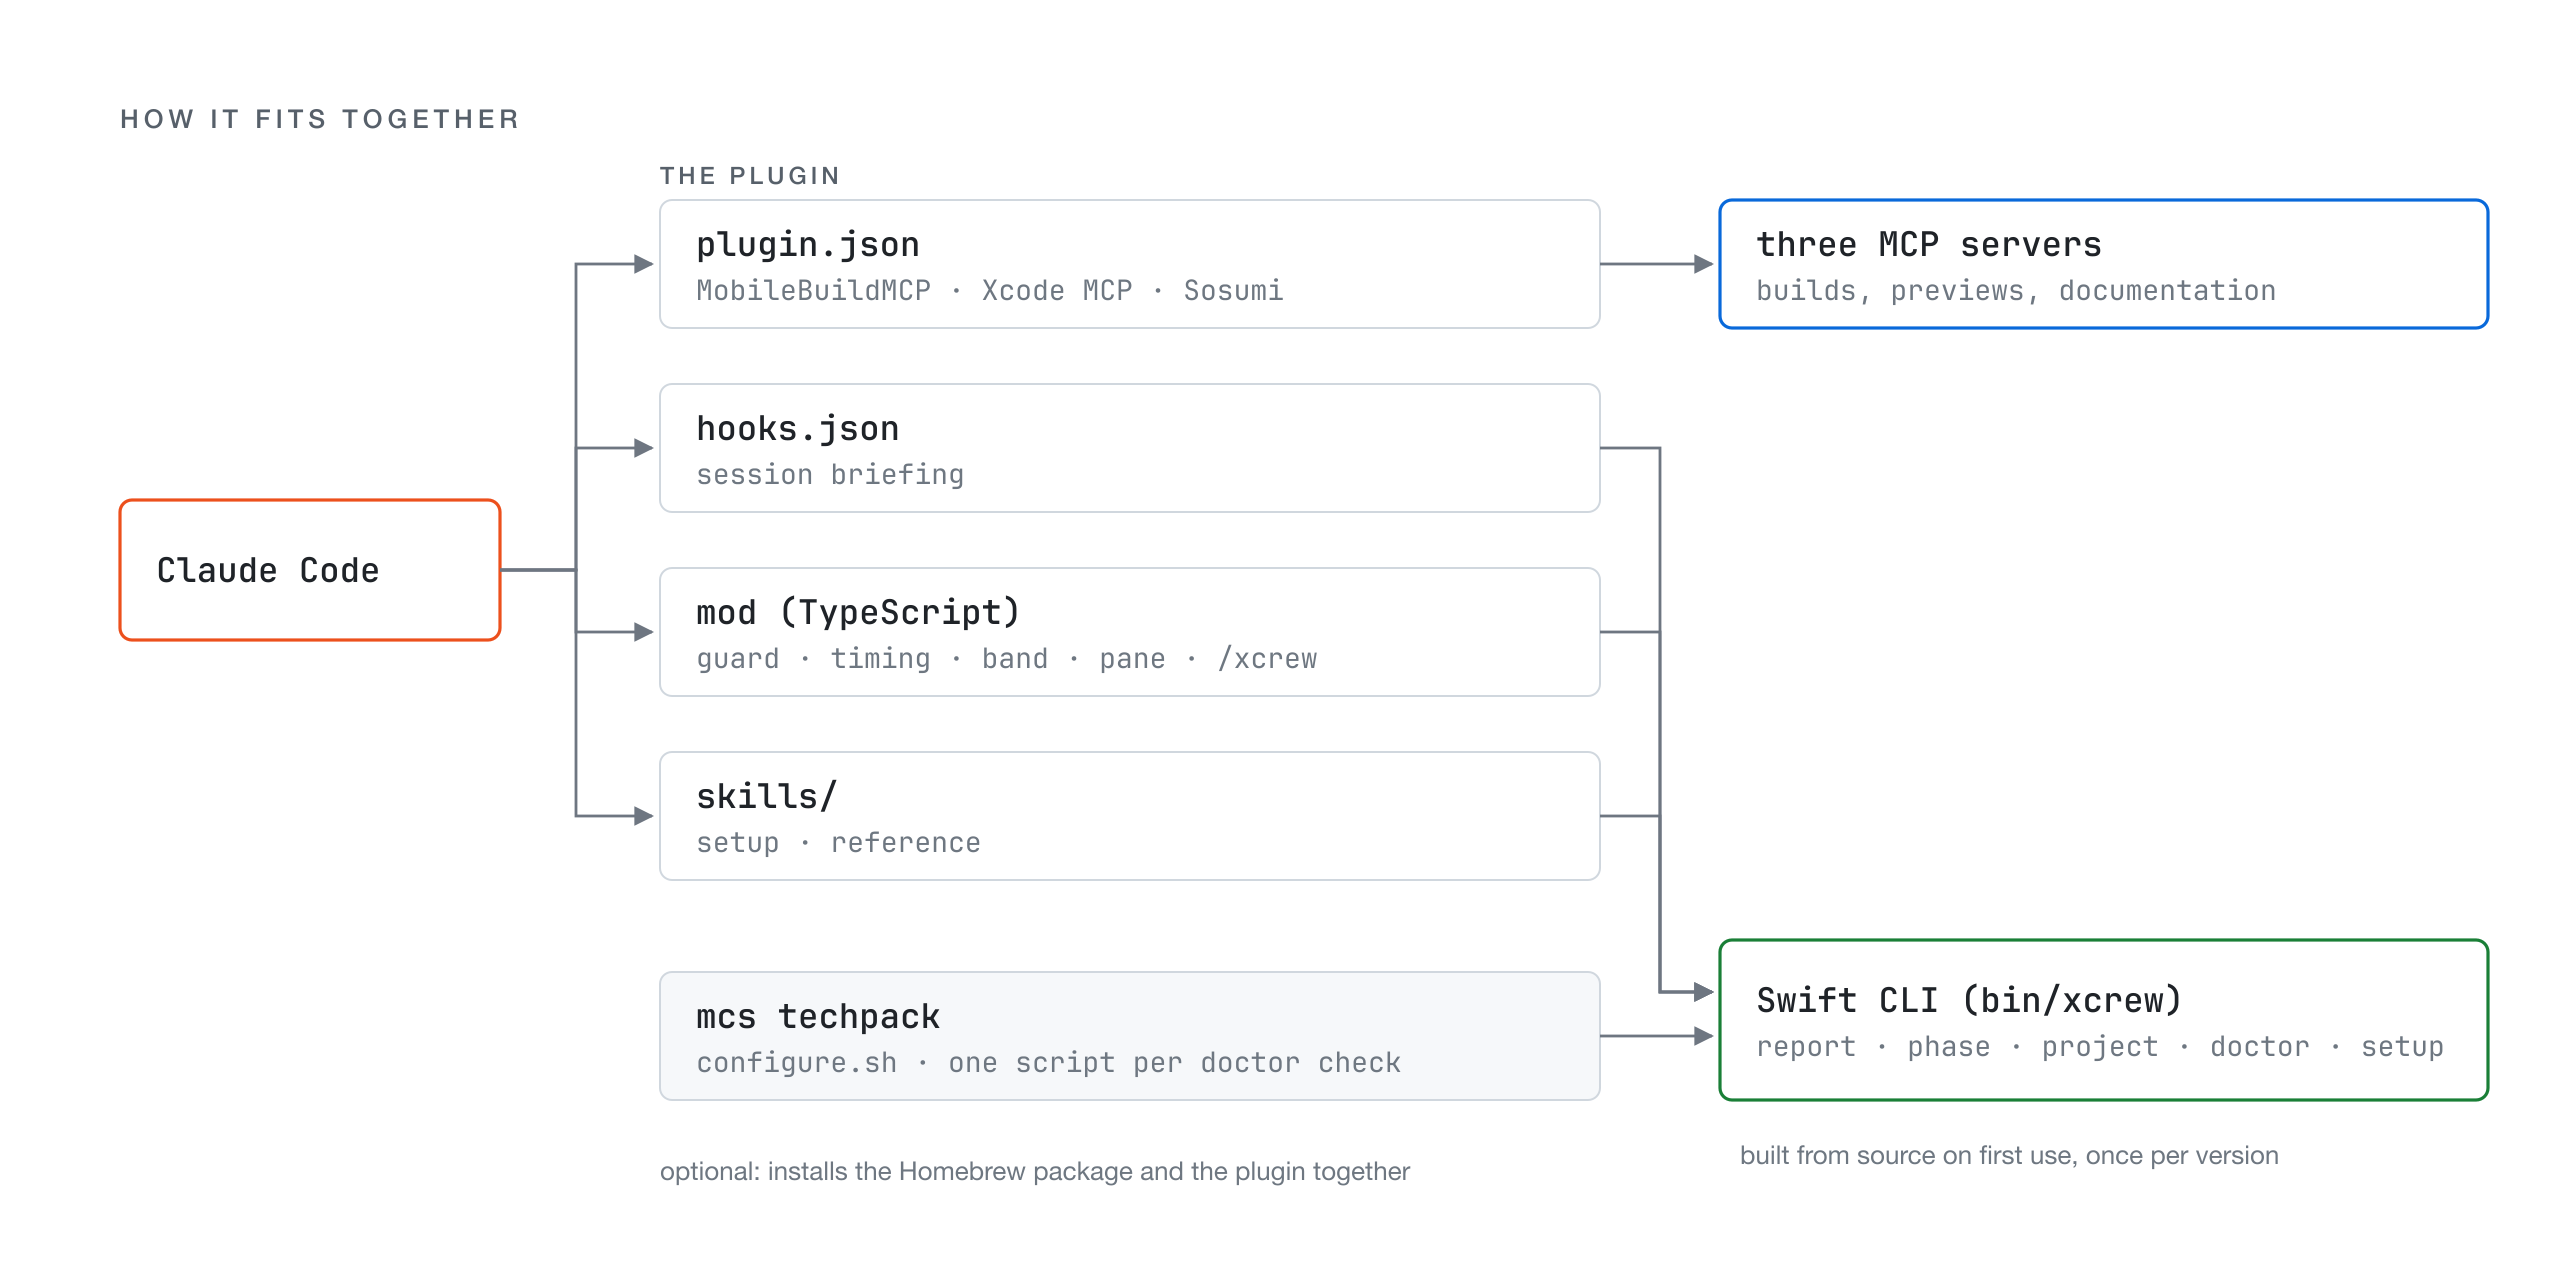
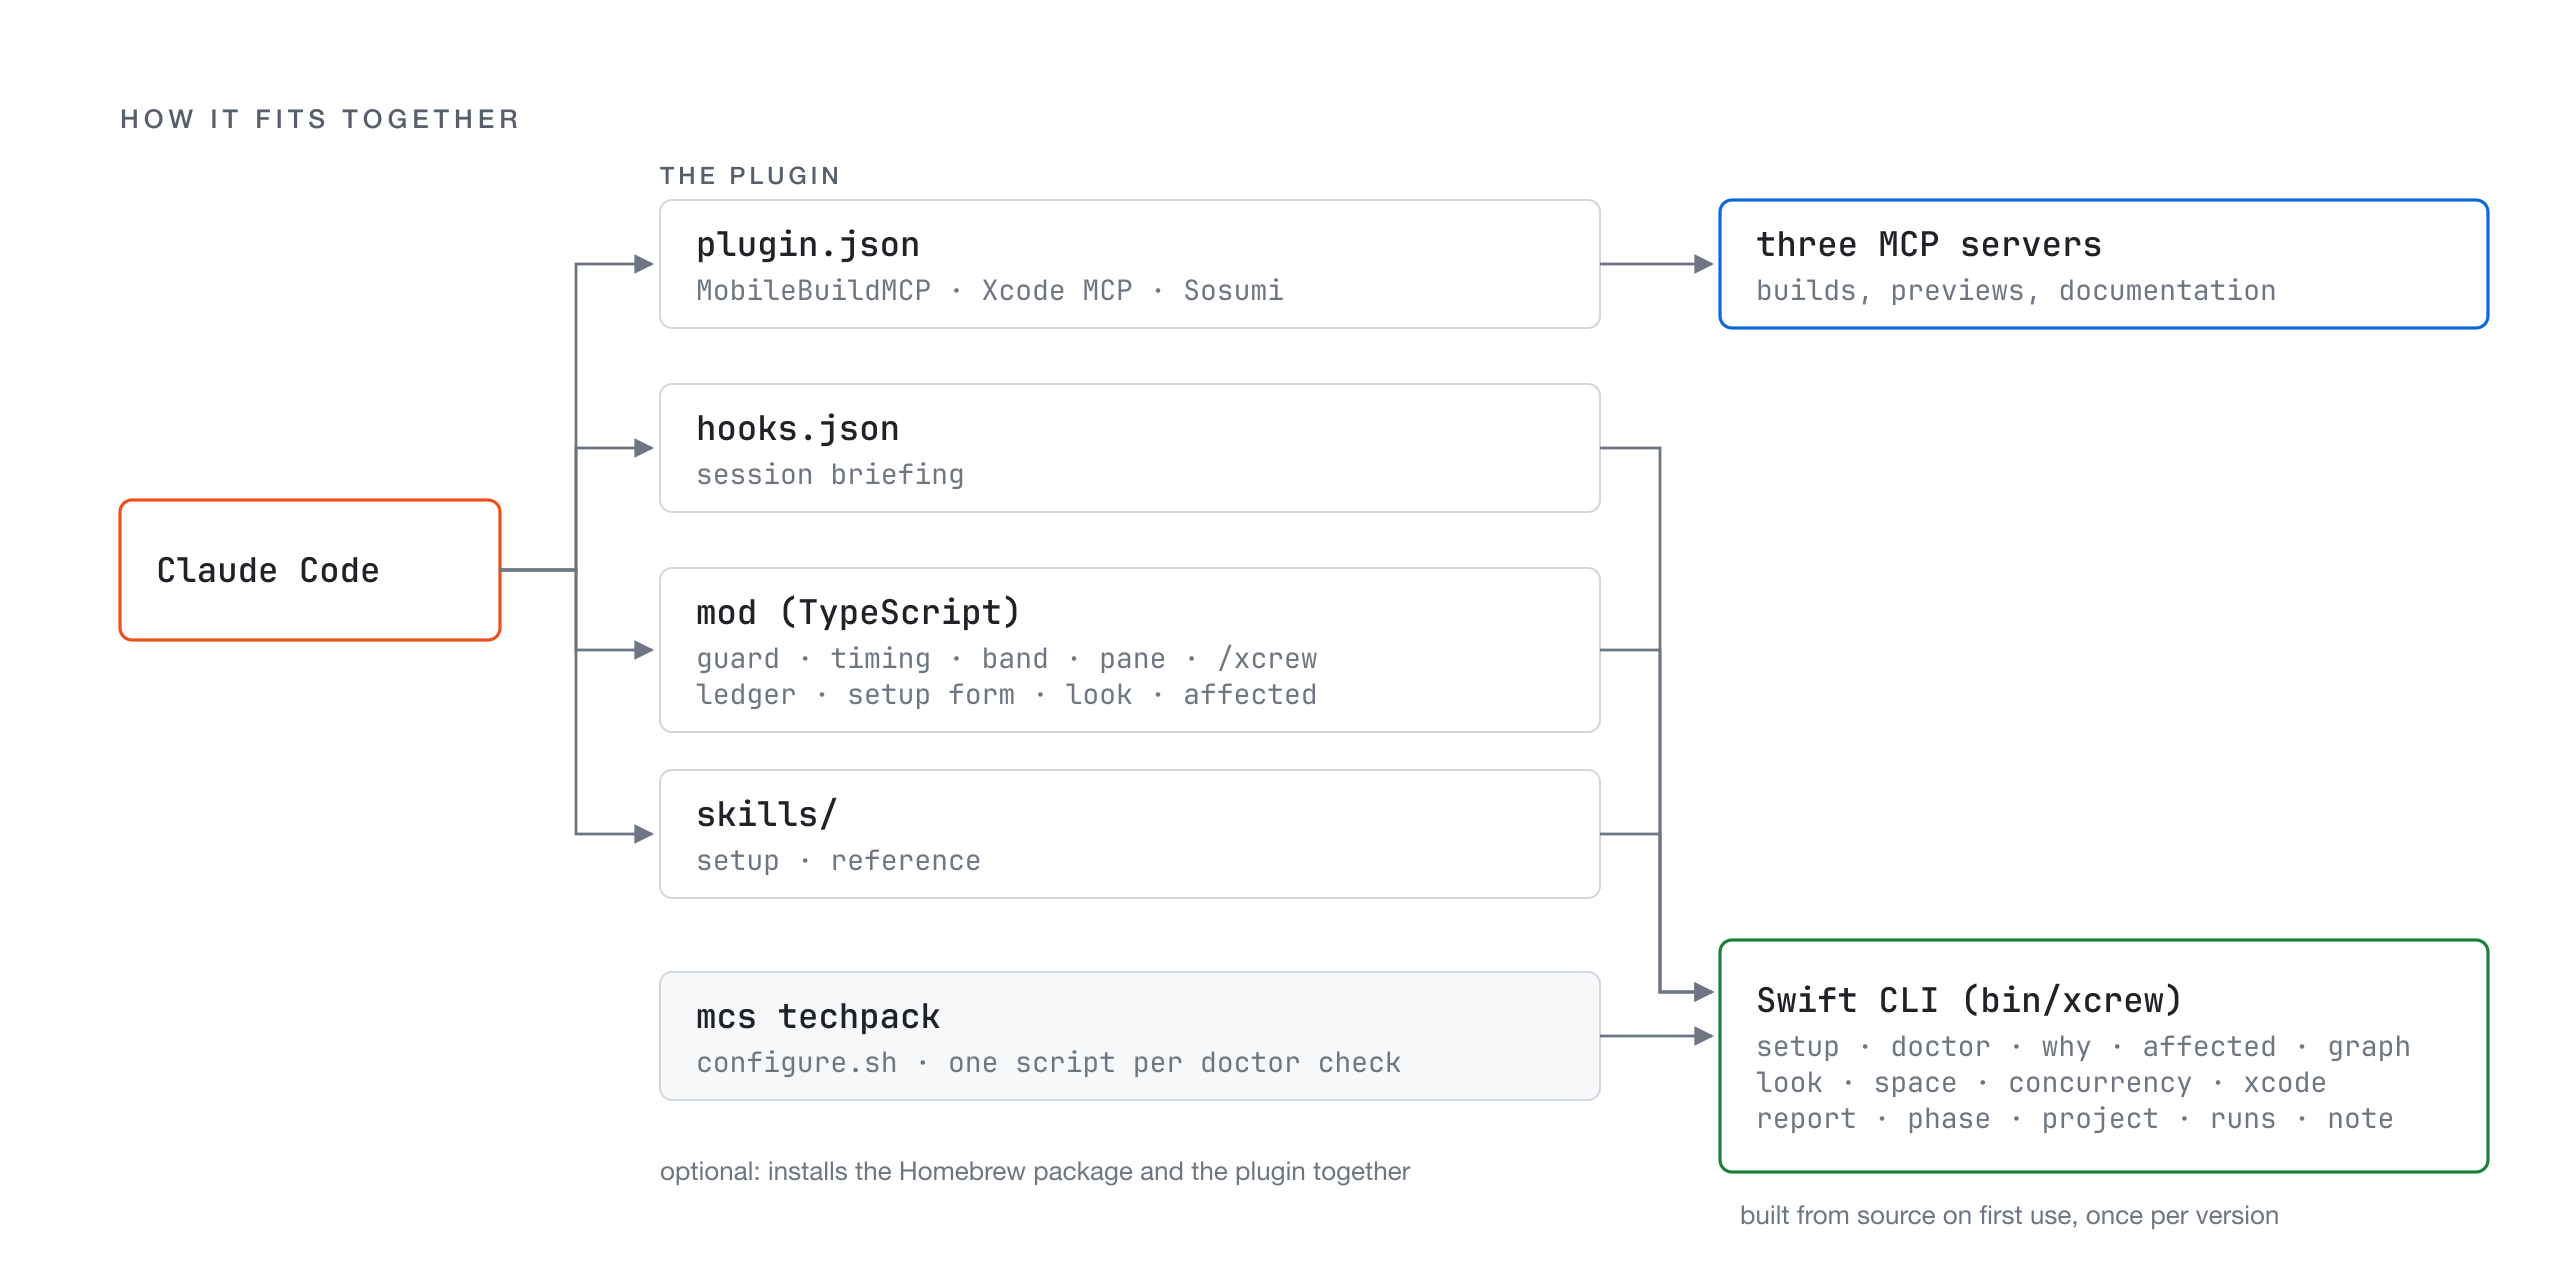
List what the plugin's mod and CLI do today in the architecture drawing (#2)

diff --git a/mockups.py b/mockups.py
@@ -237,12 +237,16 @@ def arch():
     backdrop(c, W, H)
     sans = "Helvetica Neue"
 
+    # A subtitle of several lines takes 18 more for each line past the first.
     def box(x, y, w, h, title, sub=None, accent=None, fill=None):
+        subs = [sub] if isinstance(sub, str) else (sub or [])
+        h += 18 * max(len(subs) - 1, 0)
         c.add(f'<rect x="{x}" y="{y}" width="{w}" height="{h}" rx="6" fill="{fill or C["term"]}" stroke="{accent or C["border"]}" stroke-width="{1.6 if accent else 1}"/>')
-        ty = y + (h / 2 + 6 if not sub else h / 2 - 4)
+        ty = y + (h / 2 + 6 if not subs else h / 2 - 4 - 9 * (len(subs) - 1))
         c.text(x + 18, ty, title, "text", "600", size=17, font=FONT)
-        if sub:
-            c.text(x + 18, ty + 22, sub, "subtle", size=14, font=FONT)
+        for i, line in enumerate(subs):
+            c.text(x + 18, ty + 22 + 18 * i, line, "subtle", size=14, font=FONT)
+        return h
 
     def line(x1, y1, x2, y2, arrow=True, dash=False):
         d = ' stroke-dasharray="5 5"' if dash else ""
@@ -258,14 +262,16 @@ def arch():
     pieces = [
         ("plugin.json", "MobileBuildMCP · Xcode MCP · Sosumi", False),
         ("hooks.json", "session briefing", True),
-        ("mod (TypeScript)", "guard · timing · band · pane · /xcrew", True),
+        ("mod (TypeScript)", ["guard · timing · band · pane · /xcrew", "ledger · setup form · look · affected"], True),
         ("skills/", "setup · reference", True),
     ]
     px, pw, ph = 330, 470, 64
+    middles = []
     for i, (title, sub, cli) in enumerate(pieces):
-        py = 100 + i * 92
-        elbow(250, 285, px - 4, py + ph / 2)
-        box(px, py, pw, ph, title, sub)
+        py = 100 + i * 92 + (9 if i == 3 else 0)
+        h = box(px, py, pw, ph, title, sub)
+        middles.append(py + h / 2)
+        elbow(250, 285, px - 4, py + h / 2)
     c.text(px, 92, "THE PLUGIN", "label", "600", size=12, font=sans, spacing="2")
     # The servers the plugin starts.
     sx = 860
@@ -273,11 +279,10 @@ def arch():
     line(px + pw, 132, sx - 4, 132)
     # The Swift CLI everything else calls.
     cy = 470
-    box(860, cy, 384, 80, "Swift CLI (bin/xcrew)", "report · phase · project · doctor · setup", accent=C["success"])
+    ch = box(860, cy, 384, 80, "Swift CLI (bin/xcrew)", ["setup · doctor · why · affected · graph", "look · space · concurrency · xcode", "report · phase · project · runs · note"], accent=C["success"])
     for i in (1, 2, 3):
-        py = 100 + i * 92 + ph / 2
-        c.add(f'<path d="M{px + pw} {py} H830 V{cy + 26} H856" stroke="#6e7681" stroke-width="1.4" fill="none" marker-end="url(#arrow)"/>')
-    c.text(870, cy + 112, "built from source on first use, once per version", "subtle", size=13, font=sans)
+        c.add(f'<path d="M{px + pw} {middles[i]} H830 V{cy + 26} H856" stroke="#6e7681" stroke-width="1.4" fill="none" marker-end="url(#arrow)"/>')
+    c.text(870, cy + ch + 26, "built from source on first use, once per version", "subtle", size=13, font=sans)
     # mcs, the other way in.
     box(330, 486, pw, 64, "mcs techpack", "configure.sh · one script per doctor check", fill=C["bar"])
     line(px + pw, 518, 856, 518)
